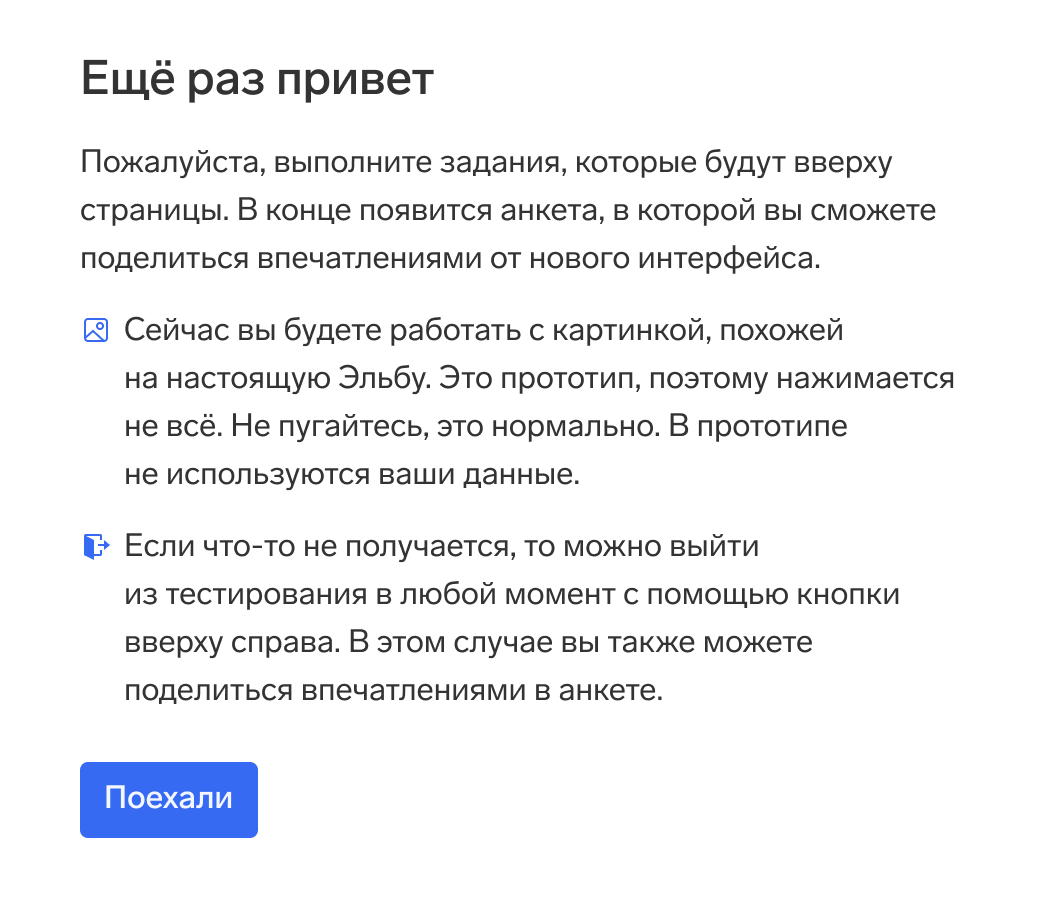
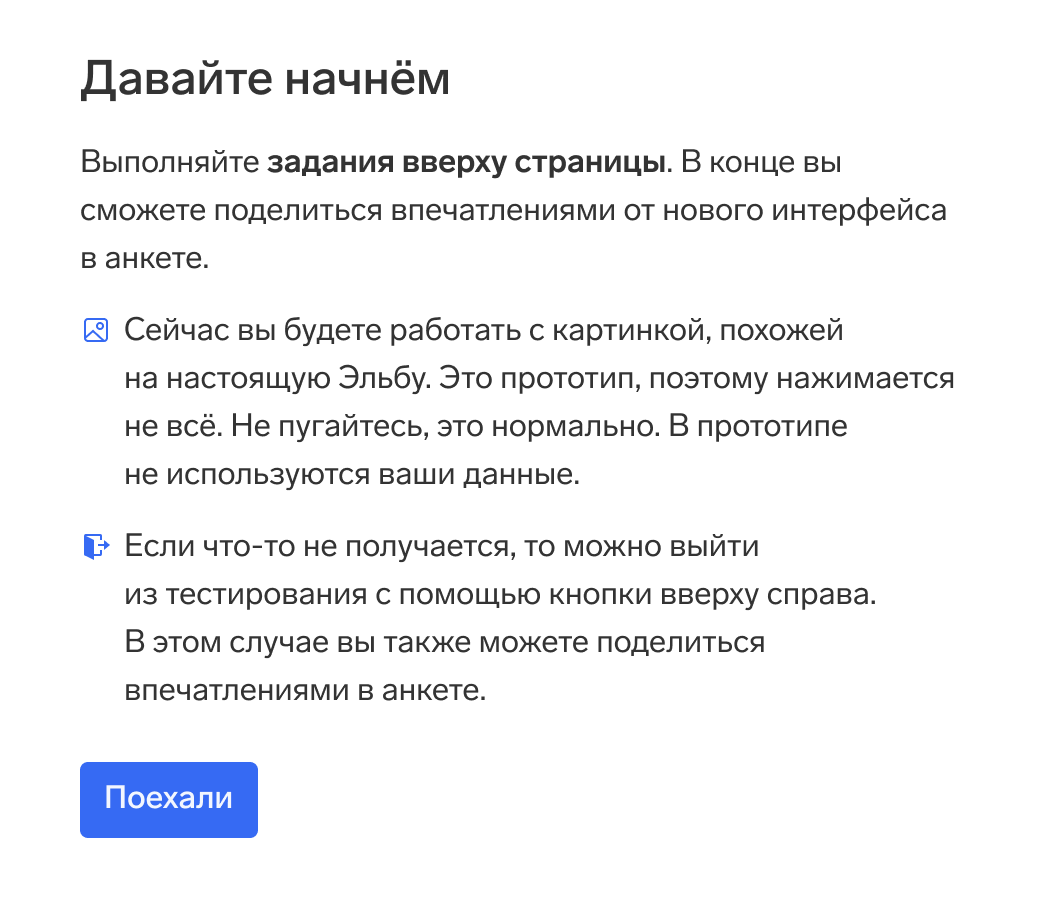
other metrika + fix text

diff --git a/finish.html b/finish.html
@@ -9,22 +9,21 @@
   <link rel="stylesheet" href="style.css">
 
   <!-- Сюда вставим код Яндекс.Метрики-->
-  <!-- Yandex.Metrika counter -->
-  <script type="text/javascript" >
-   (function(m,e,t,r,i,k,a){m[i]=m[i]||function(){(m[i].a=m[i].a||[]).push(arguments)};
-   m[i].l=1*new Date();k=e.createElement(t),a=e.getElementsByTagName(t)[0],k.async=1,k.src=r,a.parentNode.insertBefore(k,a)})
-   (window, document, "script", "https://mc.yandex.ru/metrika/tag.js", "ym");
+    <!-- Yandex.Metrika counter -->
+    <script type="text/javascript" >
+        (function(m,e,t,r,i,k,a){m[i]=m[i]||function(){(m[i].a=m[i].a||[]).push(arguments)};
+        m[i].l=1*new Date();k=e.createElement(t),a=e.getElementsByTagName(t)[0],k.async=1,k.src=r,a.parentNode.insertBefore(k,a)})
+        (window, document, "script", "https://mc.yandex.ru/metrika/tag.js", "ym");
 
-   ym(82756471, "init", {
-        clickmap:true,
-        trackLinks:true,
-        accurateTrackBounce:true,
-        webvisor:true
-   });
-  </script>
-
-  <noscript><div><img src="https://mc.yandex.ru/watch/82756471" style="position:absolute; left:-9999px;" alt="" /></div></noscript>
-  <!-- /Yandex.Metrika counter -->
+        ym(82878505, "init", {
+            clickmap:true,
+            trackLinks:true,
+            accurateTrackBounce:true,
+            webvisor:true
+        });
+    </script>
+    <noscript><div><img src="https://mc.yandex.ru/watch/82878505" style="position:absolute; left:-9999px;" alt="" /></div></noscript>
+    <!-- /Yandex.Metrika counter -->
 
 </head>
 <body style="background-image: url(media/back-finish.png); overflow: hidden;">
@@ -44,7 +43,7 @@
     <!-- Сюда вставим код для картинок -->
     <!-- Image Map Generated by http://www.image-map.net/ -->
     <map name="image-map">
-        <area target="" alt="" title="" href="" coords="71,141,231,179" shape="rect">
+        <area target="" alt="" title="" href="https://kontur.typeform.com/to/BnCpleKY#userid=xxxxx" coords="71,141,231,179" shape="rect">
     </map>
 
     

diff --git a/main-tasks.html b/main-tasks.html
@@ -11,19 +11,18 @@
   <!-- Сюда вставим код Яндекс.Метрики-->
   <!-- Yandex.Metrika counter -->
   <script type="text/javascript" >
-   (function(m,e,t,r,i,k,a){m[i]=m[i]||function(){(m[i].a=m[i].a||[]).push(arguments)};
-   m[i].l=1*new Date();k=e.createElement(t),a=e.getElementsByTagName(t)[0],k.async=1,k.src=r,a.parentNode.insertBefore(k,a)})
-   (window, document, "script", "https://mc.yandex.ru/metrika/tag.js", "ym");
+    (function(m,e,t,r,i,k,a){m[i]=m[i]||function(){(m[i].a=m[i].a||[]).push(arguments)};
+    m[i].l=1*new Date();k=e.createElement(t),a=e.getElementsByTagName(t)[0],k.async=1,k.src=r,a.parentNode.insertBefore(k,a)})
+    (window, document, "script", "https://mc.yandex.ru/metrika/tag.js", "ym");
 
-   ym(82756471, "init", {
+    ym(82878505, "init", {
         clickmap:true,
         trackLinks:true,
         accurateTrackBounce:true,
         webvisor:true
-   });
+    });
   </script>
-
-  <noscript><div><img src="https://mc.yandex.ru/watch/82756471" style="position:absolute; left:-9999px;" alt="" /></div></noscript>
+  <noscript><div><img src="https://mc.yandex.ru/watch/82878505" style="position:absolute; left:-9999px;" alt="" /></div></noscript>
   <!-- /Yandex.Metrika counter -->
 
 </head>
@@ -32,7 +31,7 @@
   <div class="header">
     <div class="task">
       <img src="media/task-02.png" srcset="media/task-02@2x.png 2x" class="text">
-      <a href=""><img src="media/exit.png" srcset="media/exit@2x.png 2x" class="exit"></a>
+      <a href="https://kontur.typeform.com/to/BnCpleKY#userid=xxxxx"><img src="media/exit.png" srcset="media/exit@2x.png 2x" class="exit"></a>
     </div>  
   </div>
 

diff --git a/main.html b/main.html
@@ -11,19 +11,18 @@
   <!-- Сюда вставим код Яндекс.Метрики-->
   <!-- Yandex.Metrika counter -->
   <script type="text/javascript" >
-   (function(m,e,t,r,i,k,a){m[i]=m[i]||function(){(m[i].a=m[i].a||[]).push(arguments)};
-   m[i].l=1*new Date();k=e.createElement(t),a=e.getElementsByTagName(t)[0],k.async=1,k.src=r,a.parentNode.insertBefore(k,a)})
-   (window, document, "script", "https://mc.yandex.ru/metrika/tag.js", "ym");
+    (function(m,e,t,r,i,k,a){m[i]=m[i]||function(){(m[i].a=m[i].a||[]).push(arguments)};
+    m[i].l=1*new Date();k=e.createElement(t),a=e.getElementsByTagName(t)[0],k.async=1,k.src=r,a.parentNode.insertBefore(k,a)})
+    (window, document, "script", "https://mc.yandex.ru/metrika/tag.js", "ym");
 
-   ym(82756471, "init", {
+    ym(82878505, "init", {
         clickmap:true,
         trackLinks:true,
         accurateTrackBounce:true,
         webvisor:true
-   });
+    });
   </script>
-
-  <noscript><div><img src="https://mc.yandex.ru/watch/82756471" style="position:absolute; left:-9999px;" alt="" /></div></noscript>
+  <noscript><div><img src="https://mc.yandex.ru/watch/82878505" style="position:absolute; left:-9999px;" alt="" /></div></noscript>
   <!-- /Yandex.Metrika counter -->
 
 </head>
@@ -32,7 +31,7 @@
   <div class="header">
     <div class="task">
       <img src="media/task-01.png" srcset="media/task-01@2x.png 2x" class="text">
-      <a href=""><img src="media/exit.png" srcset="media/exit@2x.png 2x" class="exit"></a>
+      <a href="https://kontur.typeform.com/to/BnCpleKY#userid=xxxxx"><img src="media/exit.png" srcset="media/exit@2x.png 2x" class="exit"></a>
     </div>  
   </div>
 

diff --git a/payment.html b/payment.html
@@ -11,19 +11,18 @@
   <!-- Сюда вставим код Яндекс.Метрики-->
   <!-- Yandex.Metrika counter -->
   <script type="text/javascript" >
-   (function(m,e,t,r,i,k,a){m[i]=m[i]||function(){(m[i].a=m[i].a||[]).push(arguments)};
-   m[i].l=1*new Date();k=e.createElement(t),a=e.getElementsByTagName(t)[0],k.async=1,k.src=r,a.parentNode.insertBefore(k,a)})
-   (window, document, "script", "https://mc.yandex.ru/metrika/tag.js", "ym");
+    (function(m,e,t,r,i,k,a){m[i]=m[i]||function(){(m[i].a=m[i].a||[]).push(arguments)};
+    m[i].l=1*new Date();k=e.createElement(t),a=e.getElementsByTagName(t)[0],k.async=1,k.src=r,a.parentNode.insertBefore(k,a)})
+    (window, document, "script", "https://mc.yandex.ru/metrika/tag.js", "ym");
 
-   ym(82756471, "init", {
+    ym(82878505, "init", {
         clickmap:true,
         trackLinks:true,
         accurateTrackBounce:true,
         webvisor:true
-   });
+    });
   </script>
-
-  <noscript><div><img src="https://mc.yandex.ru/watch/82756471" style="position:absolute; left:-9999px;" alt="" /></div></noscript>
+  <noscript><div><img src="https://mc.yandex.ru/watch/82878505" style="position:absolute; left:-9999px;" alt="" /></div></noscript>
   <!-- /Yandex.Metrika counter -->
 
 </head>
@@ -32,7 +31,7 @@
   <div class="header">
     <div class="task">
       <img src="media/task-02.png" srcset="media/task-02@2x.png 2x" class="text">
-      <a href=""><img src="media/exit.png" srcset="media/exit@2x.png 2x" class="exit"></a>
+      <a href="https://kontur.typeform.com/to/BnCpleKY#userid=xxxxx"><img src="media/exit.png" srcset="media/exit@2x.png 2x" class="exit"></a>
     </div>  
   </div>
 

diff --git a/settings.html b/settings.html
@@ -11,19 +11,18 @@
   <!-- Сюда вставим код Яндекс.Метрики-->
   <!-- Yandex.Metrika counter -->
   <script type="text/javascript" >
-   (function(m,e,t,r,i,k,a){m[i]=m[i]||function(){(m[i].a=m[i].a||[]).push(arguments)};
-   m[i].l=1*new Date();k=e.createElement(t),a=e.getElementsByTagName(t)[0],k.async=1,k.src=r,a.parentNode.insertBefore(k,a)})
-   (window, document, "script", "https://mc.yandex.ru/metrika/tag.js", "ym");
+    (function(m,e,t,r,i,k,a){m[i]=m[i]||function(){(m[i].a=m[i].a||[]).push(arguments)};
+    m[i].l=1*new Date();k=e.createElement(t),a=e.getElementsByTagName(t)[0],k.async=1,k.src=r,a.parentNode.insertBefore(k,a)})
+    (window, document, "script", "https://mc.yandex.ru/metrika/tag.js", "ym");
 
-   ym(82756471, "init", {
+    ym(82878505, "init", {
         clickmap:true,
         trackLinks:true,
         accurateTrackBounce:true,
         webvisor:true
-   });
+    });
   </script>
-
-  <noscript><div><img src="https://mc.yandex.ru/watch/82756471" style="position:absolute; left:-9999px;" alt="" /></div></noscript>
+  <noscript><div><img src="https://mc.yandex.ru/watch/82878505" style="position:absolute; left:-9999px;" alt="" /></div></noscript>
   <!-- /Yandex.Metrika counter -->
 
 </head>
@@ -32,7 +31,7 @@
   <div class="header">
     <div class="task">
       <img src="media/task-01.png" srcset="media/task-01@2x.png 2x" class="text">
-      <a href=""><img src="media/exit.png" srcset="media/exit@2x.png 2x" class="exit"></a>
+      <a href="https://kontur.typeform.com/to/BnCpleKY#userid=xxxxx"><img src="media/exit.png" srcset="media/exit@2x.png 2x" class="exit"></a>
     </div>  
   </div>
 

diff --git a/tasks.html b/tasks.html
@@ -11,19 +11,18 @@
   <!-- Сюда вставим код Яндекс.Метрики-->
   <!-- Yandex.Metrika counter -->
   <script type="text/javascript" >
-   (function(m,e,t,r,i,k,a){m[i]=m[i]||function(){(m[i].a=m[i].a||[]).push(arguments)};
-   m[i].l=1*new Date();k=e.createElement(t),a=e.getElementsByTagName(t)[0],k.async=1,k.src=r,a.parentNode.insertBefore(k,a)})
-   (window, document, "script", "https://mc.yandex.ru/metrika/tag.js", "ym");
+    (function(m,e,t,r,i,k,a){m[i]=m[i]||function(){(m[i].a=m[i].a||[]).push(arguments)};
+    m[i].l=1*new Date();k=e.createElement(t),a=e.getElementsByTagName(t)[0],k.async=1,k.src=r,a.parentNode.insertBefore(k,a)})
+    (window, document, "script", "https://mc.yandex.ru/metrika/tag.js", "ym");
 
-   ym(82756471, "init", {
+    ym(82878505, "init", {
         clickmap:true,
         trackLinks:true,
         accurateTrackBounce:true,
         webvisor:true
-   });
+    });
   </script>
-
-  <noscript><div><img src="https://mc.yandex.ru/watch/82756471" style="position:absolute; left:-9999px;" alt="" /></div></noscript>
+  <noscript><div><img src="https://mc.yandex.ru/watch/82878505" style="position:absolute; left:-9999px;" alt="" /></div></noscript>
   <!-- /Yandex.Metrika counter -->
 
 </head>
@@ -32,7 +31,7 @@
   <div class="header">
     <div class="task">
       <img src="media/task-03.png" srcset="media/task-03@2x.png 2x" class="text">
-      <a href=""><img src="media/exit.png" srcset="media/exit@2x.png 2x" class="exit"></a>
+      <a href="https://kontur.typeform.com/to/BnCpleKY#userid=xxxxx"><img src="media/exit.png" srcset="media/exit@2x.png 2x" class="exit"></a>
     </div>  
   </div>
 

diff --git a/index.html b/index.html
@@ -11,19 +11,18 @@
   <!-- Сюда вставим код Яндекс.Метрики-->
   <!-- Yandex.Metrika counter -->
   <script type="text/javascript" >
-   (function(m,e,t,r,i,k,a){m[i]=m[i]||function(){(m[i].a=m[i].a||[]).push(arguments)};
-   m[i].l=1*new Date();k=e.createElement(t),a=e.getElementsByTagName(t)[0],k.async=1,k.src=r,a.parentNode.insertBefore(k,a)})
-   (window, document, "script", "https://mc.yandex.ru/metrika/tag.js", "ym");
+    (function(m,e,t,r,i,k,a){m[i]=m[i]||function(){(m[i].a=m[i].a||[]).push(arguments)};
+    m[i].l=1*new Date();k=e.createElement(t),a=e.getElementsByTagName(t)[0],k.async=1,k.src=r,a.parentNode.insertBefore(k,a)})
+    (window, document, "script", "https://mc.yandex.ru/metrika/tag.js", "ym");
 
-   ym(82756471, "init", {
+    ym(82878505, "init", {
         clickmap:true,
         trackLinks:true,
         accurateTrackBounce:true,
         webvisor:true
-   });
+    });
   </script>
-
-  <noscript><div><img src="https://mc.yandex.ru/watch/82756471" style="position:absolute; left:-9999px;" alt="" /></div></noscript>
+  <noscript><div><img src="https://mc.yandex.ru/watch/82878505" style="position:absolute; left:-9999px;" alt="" /></div></noscript>
   <!-- /Yandex.Metrika counter -->
 
 </head>
